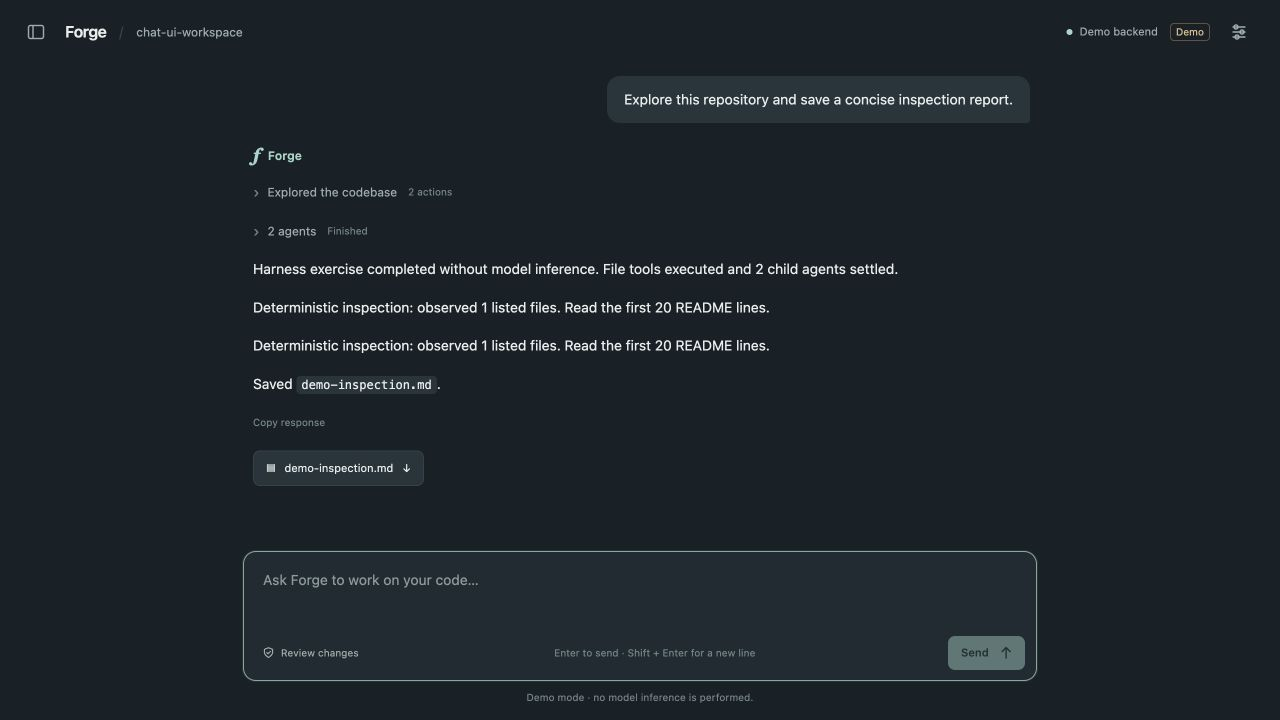
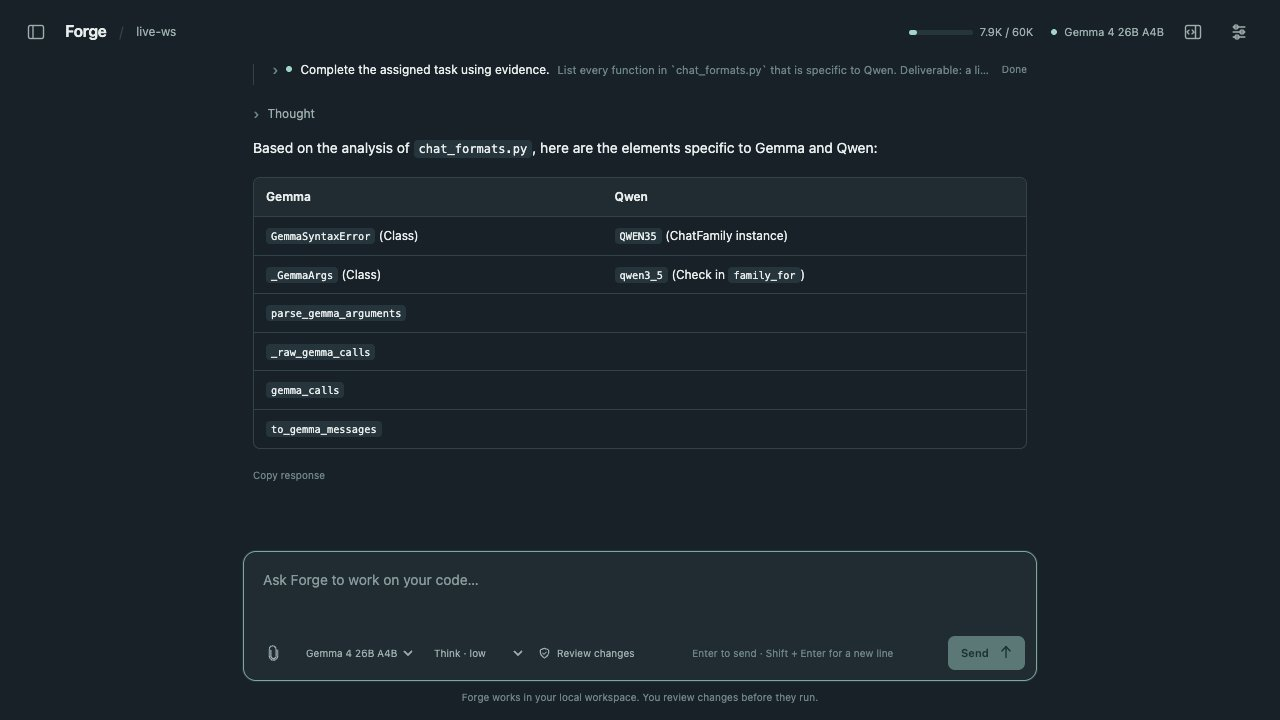
Document the new Studio UI and refresh its screenshots
The guide described a single Qwen3.5 replica and no streaming. It now
covers the Gemma driver with lazy Qwen sub-agent workers, model and effort
selection, the new panels, and how workers shut down. The screenshots are
from a real Gemma session instead of demo mode. The Studio smoke scripts
use the profile's first worker, which is Gemma now, so their messages no
longer say Qwen.

diff --git a/benchmarks/smoke_studio.py b/benchmarks/smoke_studio.py
@@ -56,7 +56,7 @@ async def execute(args):
             if service.backend_status != "ready":
                 raise RuntimeError(service.backend_error)
             print(
-                "Local Qwen3.5 worker ready; submitting delegated inspection.",
+                "Local main-model worker ready; submitting delegated inspection.",
                 flush=True,
             )
             task = "Delegate exactly one child agent to read README.md and report its project title. Wait for the child result, then finish with the project title and say this is only an integration fixture. Use only observed file evidence. Do not create any files."
@@ -81,7 +81,7 @@ async def execute(args):
                 and e["payload"].get("name") == "read_file"
             ]
             report = {
-                "scope": "One local Qwen3.5-4B mission using actual model inference; not a broad capability evaluation",
+                "scope": "One local main-model mission using actual model inference; not a broad capability evaluation",
                 "source_revision": source_revision,
                 "harness_file_sha256": source_identity,
                 "recipe_sha256": recipe_sha256,

diff --git a/benchmarks/smoke_studio_image.py b/benchmarks/smoke_studio_image.py
@@ -1,4 +1,4 @@
-"""Real Qwen3.5 image upload, follow-up vision context and developer tools smoke."""
+"""Real image upload, follow-up vision context and developer tools smoke."""
 
 import argparse
 import asyncio
@@ -88,7 +88,7 @@ async def execute(args):
                 }
             )
             print(
-                "Image prompt accepted; starting actual local Qwen3.5 vision worker.",
+                "Image prompt accepted; starting the local main-model worker.",
                 flush=True,
             )
             chat = first["chat_id"]
@@ -156,7 +156,7 @@ async def execute(args):
                 for event in command_receipts
             )
             report = {
-                "scope": "Two image turns plus one narrowly approved Python command through local Qwen3.5; not broad vision or coding capability evidence",
+                "scope": "Two image turns plus one narrowly approved Python command through the local main model; not broad vision or coding capability evidence",
                 "source_revision": revision,
                 "file_sha256": identity,
                 "image_sha256": item["sha256"],

diff --git a/benchmarks/smoke_studio_chat.py b/benchmarks/smoke_studio_chat.py
@@ -105,7 +105,7 @@ async def execute(args):
                 and event["payload"].get("name") == "read_file"
             ]
             report = {
-                "scope": "One local Qwen3.5-4B chat, three sequential turns: automatic startup, conversational recall and a real file read. Not broad reliability evidence.",
+                "scope": "One local main-model chat, three sequential turns: automatic startup, conversational recall and a real file read. Not broad reliability evidence.",
                 "source_revision": source_revision,
                 "harness_file_sha256": source_identity,
                 "recipe_sha256": hashlib.sha256(

diff --git a/docs/forge-studio.md b/docs/forge-studio.md
@@ -4,14 +4,14 @@ Forge Studio is a local assistant for the inference engine. Open it, type what
 you need, and continue in the same conversation. Tools, delegated agents and
 permissions appear inline when they are relevant.
 
-![Forge conversation with inline tools and persistent composer](images/forge-studio-chat.jpg)
+![Forge conversation with sub-agents, thinking and a table answer](images/forge-studio-chat.jpg)
 
-Screenshot from `--demo` mode.
+Gemma 4 26B A4B answering with help from two Qwen3.5-4B sub-agents.
 
 ## Open and type
 
-From the repository root, with the existing Python environment and Qwen3.5
-checkpoint installed:
+From the repository root, after `pip install -e '.[mlx,vlm,agents]'` and
+`python -m forge_llm.prepare_models` (see [models.md](models.md)):
 
 ```bash
 .venv/bin/python tools/forge_studio.py
@@ -29,7 +29,8 @@ forge-studio --workspace . --config examples/agents-studio.json
 ```
 
 Use `--port 8766` if the default port is occupied. Keep the launcher open while
-using Studio. Ctrl-C closes its owned workers and preserves interrupted work.
+using Studio. Ctrl-C or SIGTERM stops its model workers and preserves interrupted
+work, and the workers also exit by themselves if the launcher is killed.
 `--no-open` serves the app without authorizing a fresh browser.
 
 ## Conversation controls
@@ -39,7 +40,11 @@ using Studio. Ctrl-C closes its owned workers and preserves interrupted work.
 | Send a prompt or follow-up | Enter, or Send |
 | Insert a newline | Shift+Enter |
 | Stop the current response | Escape, or Stop |
-| Start fresh | New chat; previous chats stay in history |
+| Start fresh | New chat (Cmd/Ctrl+K); previous chats stay in history |
+| Find an old chat | Search chats in the sidebar, or Cmd/Ctrl+Shift+F |
+| Rename or delete a chat | Pencil or × on the chat in the sidebar; delete asks once more |
+| Pick the model or reasoning effort | Selectors under the message box |
+| See how full the context is | Meter in the top bar: this chat's prompt against its limit |
 | Inspect a tool or delegated agent | Expand its inline activity row |
 | Review a proposed change | Inspect the inline diff, then approve or decline |
 | Adjust permissions | Settings; technical configuration stays out of the composer |
@@ -47,14 +52,34 @@ using Studio. Ctrl-C closes its owned workers and preserves interrupted work.
 | Reference a source file | Files panel: search, open, then Insert @path |
 | Attach an image | Attach images, paste, or drop an image onto the composer |
 
+## Models and reasoning effort
+
+The default profile, `examples/agents-studio.json`, runs Gemma 4 26B A4B as the
+main model and two Qwen3.5-4B workers for sub-agents. A chat can also be driven
+by Qwen3.5-4B, which is faster and lighter but weaker. The choice and the effort
+apply from the next message and are kept per chat.
+
+| Effort | What the model does |
+| --- | --- |
+| Fast | Answers without thinking. Agent steps decode greedily, with Gemma's drafter where it helps |
+| Think · low / medium | Thinks for up to 1,024 / 4,096 tokens first |
+| Think · high | Thinks for as long as it needs, within the output limit |
+
+Replies stream in as they're generated. While the model is thinking, its
+reasoning shows in a collapsible block, which stays under the answer as
+"Thought" afterwards. Sub-agents stream into their own cards.
+
+The Qwen workers start when a sub-agent first needs one and stop after ten idle
+minutes, so a chat that never delegates only holds Gemma in memory (about
+16 GB). Each agent keeps to the worker that has its prompt cached; see
+[vlm-runner.md](vlm-runner.md) for how prompts are reused.
+
 ## Developer workspace
 
 The optional right panel has independent scrolling. On desktop it can stay open
 beside the chat; on smaller screens it becomes a dismissible drawer.
 
-![Developer workspace with created files and image attachment](images/forge-studio-developer.jpg)
-
-Screenshot from `--demo` mode.
+![Developer workspace on the Performance tab](images/forge-studio-developer.jpg)
 
 - **Agents** shows assigned tasks, current tool operations, status, permissions,
   results and errors. Select an agent to save direction for its next model step
@@ -74,6 +99,17 @@ Screenshot from `--demo` mode.
   bounded output, failures and timeouts. Ask Forge to run a developer command
   in chat. `run_command` executes an explicitly reviewed argv array, with no
   implicit shell expansion; it does not provide an interactive terminal.
+- **Performance** lists every model call in the chat: prompt size and how much
+  of it came from the prompt cache, time to first token, decode speed, tokens
+  per round when Gemma's drafter ran, and output length. Above the list are
+  totals and each agent's context use.
+- **System** shows each model worker: memory, prompt-cache size, requests,
+  cache reuse, and whether it's ready, generating, starting or stopped.
+
+<p>
+  <img src="images/forge-studio-chat-mobile.jpg" alt="Studio chat on a phone" width="260">
+  <img src="images/forge-studio-developer-mobile.jpg" alt="System tab on a phone" width="260">
+</p>
 
 Commands can run repository code and have the launcher's OS privileges. Review
 the exact command before approval. Their working directory is confined to the
@@ -92,14 +128,16 @@ profile runs locally. They are not sent to an image-generation service.
 Accepted images are validated, hashed and stored once in private state. Sent
 thumbnails and full previews are authenticated and scoped to the conversation.
 Follow-ups and delegated agents receive bounded prior image context, keeping
-newer attachments when older ones exceed the limit. The default Qwen3.5 model
-supports image inference; incompatible model pools produce an explicit error.
+newer attachments when older ones exceed the limit. Gemma 4 and Qwen3.5 both
+accept images; model pools that can't produce an explicit error.
 Draft image bytes stay in the current browser tab's memory until sent; text
 drafts continue to use session storage.
 
 Follow-ups retain prior user messages and assistant replies in the same chat.
 The model receives bounded conversation context, with the current request pinned
-when older context is compacted. Chat history and accepted prompts persist across
+when older context is compacted. Old turns are dropped several at a time rather
+than one per message, so the start of the prompt, and with it the model's prompt
+cache, stays the same for a while. Chat history and accepted prompts persist across
 browser refreshes and server restarts. While the assistant is busy, submitted
 direction is saved and delivered without requiring a new task or a branch.
 
@@ -110,10 +148,10 @@ versions and proposed diffs are rechecked before editing. Read-only mode exposes
 inspection tools without mutation tools. Child agents inherit a restricted tool
 scope; their work appears inline and does not require switching to another view.
 
-The launcher profile loads one complete model replica. Logical agents have their
-own contexts and share that replica. For two physical replicas, select the existing
-`examples/agents-qwen35.json` worker configuration. Turn, token, context, deadline
-and concurrency limits still apply internally. Failures appear in the conversation
+Logical agents have their own contexts and share the configured workers: the
+main agent runs on the chat's model and sub-agents on the Qwen workers, two at a
+time. Turn, token, context, deadline and concurrency limits still apply
+internally. Failures appear in the conversation
 with the submitted message preserved.
 
 ## Optional extensions
@@ -169,11 +207,11 @@ These application controls are not an OS sandbox. Repository tests and selected
 MCP executables run with the launcher's OS privileges. Interrupted uncertain
 mutations and completion validators are not automatically replayed.
 
-Activity is updated from the durable journal at action boundaries. Token-by-token
-answer streaming, Studio video upload, remote MCP transports, OS/container
-isolation, computer-use tools, scheduled jobs and multiple human accounts remain
-outside this release. Text/image/video model execution remains available in the
-engine and earlier chat/CLI APIs.
+Replies, thinking and worker status arrive over one server-sent event stream
+(`/api/events`); tool activity updates from the durable journal at action
+boundaries. Video upload, remote MCP transports, OS/container isolation,
+computer-use tools, scheduled jobs and multiple human accounts are not part of
+Studio. Short video works through the runner API ([models.md](models.md)).
 
 For an explicitly labeled deterministic harness exercise without inference:
 

diff --git a/README.md b/README.md
@@ -6,9 +6,9 @@ cache, continuous batching and custom Metal kernels. PyTorch and Transformers ar
 only used to export weights, tokenize and check outputs; they're never in the
 generation loop.
 
-The repo also has a few things built on top of the engine: speculative decoding,
-a multi-agent task runtime, a local web UI (Forge Studio), and a Qwen3.5-4B
-multimodal path.
+The repo also has a few things built on top of it: speculative decoding, a
+multi-agent task runtime, and a local web UI (Forge Studio) where Gemma 4 26B A4B
+works in a directory and hands work to Qwen3.5-4B sub-agents.
 
 ## What the engine does
 
@@ -123,10 +123,12 @@ python -m forge_llm.prepare_models       # ~18 GB into models/
 
 **Forge Studio.** A local web UI (`python tools/forge_studio.py`, or double-click
 `Forge Studio.command`) for chatting with the model and letting it work in a
-directory. Tool calls, sub-agents and approval prompts for edits and commands
-show up inline in the conversation. It has an optional developer panel, image
-attachments, skills and stdio MCP servers. `--demo` runs the UI without loading
-a model. See [docs/forge-studio.md](docs/forge-studio.md).
+directory. Replies stream in, and tool calls, sub-agents and approval prompts for
+edits and commands show up inline. Each chat picks its model and reasoning effort,
+a meter shows how full the context is, and a developer panel shows files,
+diffs, every model call's timing and cache use, and the state of each worker.
+It also takes image attachments, skills and stdio MCP servers. `--demo` runs the
+UI without loading a model. See [docs/forge-studio.md](docs/forge-studio.md).
 
 **Agent runtime.** Logical agents share a pool of model worker processes (local
 or remote over authenticated HTTP), spawn bounded child agents, and journal
